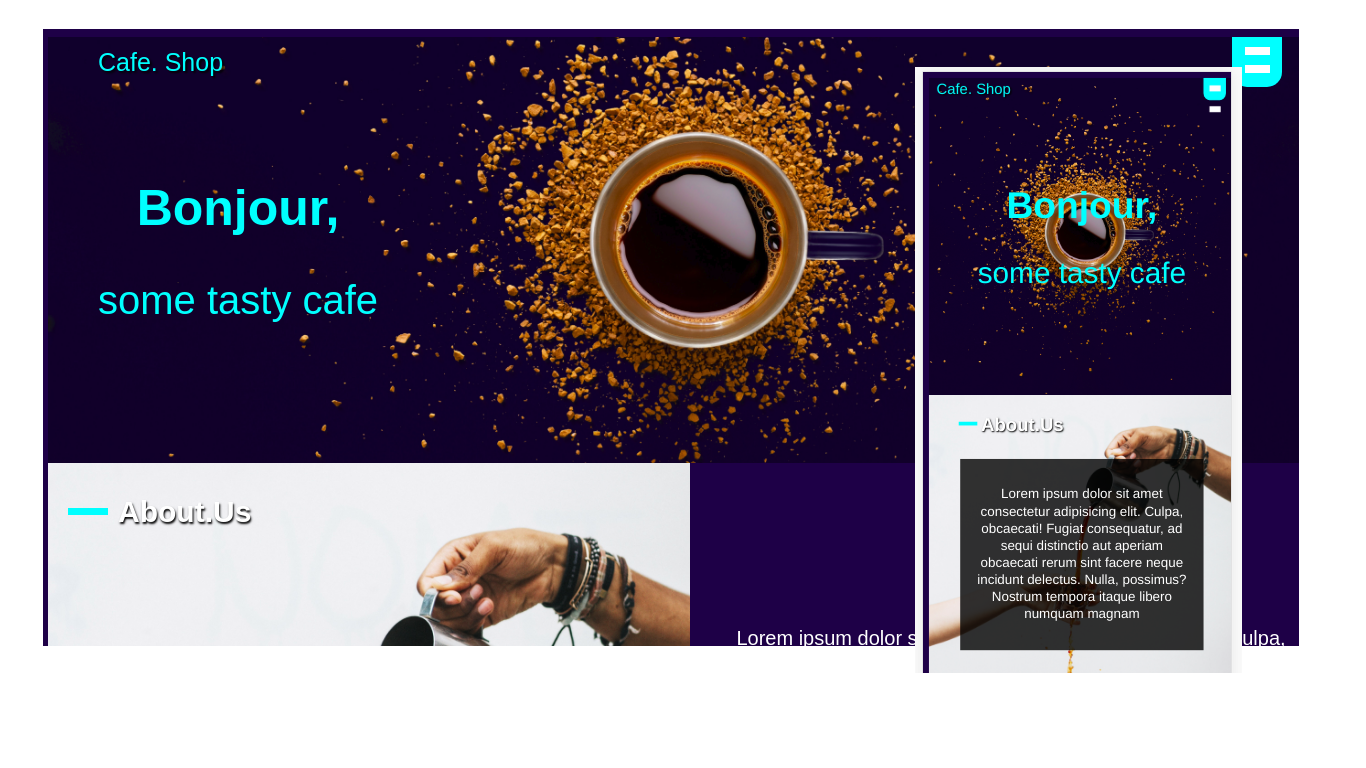
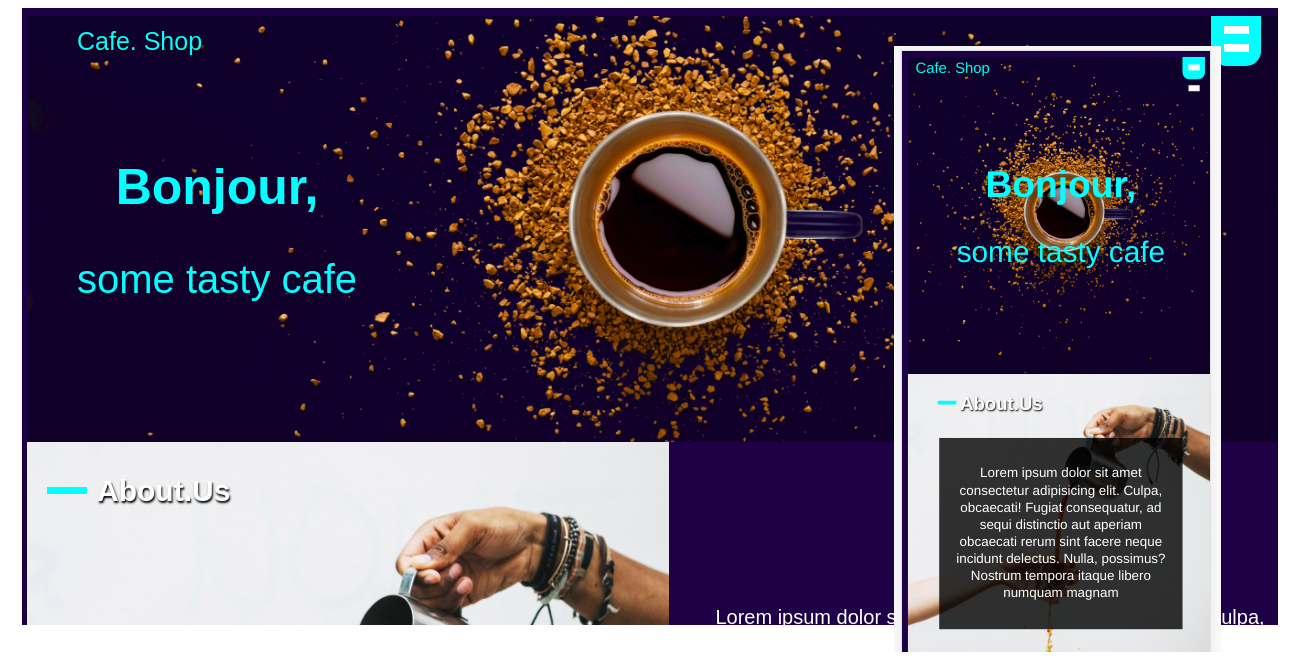
wasa clients picture updated

diff --git a/index.html b/index.html
@@ -91,9 +91,9 @@
         <section id="personalstatement">
             <h2>Hey, I'm Bea!</h2>
             <h2>I'm a creative, self-motivative { digital player } </h2>
-            <h2>I have worked in the online marketing and digital world for { 5 } years
+            <h2>I have worked for online marketing over { 5 } years
                 <h2>Now I'm passionate about being a { front-end developer }</h2>
-                <h2>And I am into { creating } digital experience and online { solutions }</h2>
+                <h2>and into creating development { experience } and online { solutions }</h2>
         </section>
         <!-- <div id="scrollImg"><img src="img/cartoonbody.png" alt=""></div> -->
 
@@ -235,10 +235,10 @@
                     Culture using 4 Languages
                     <br> (English, German, Spanish, Chinese)</h3>
                 <h3 class="wasaintro1" onmouseover="style.transform='rotateZ(0deg)'">Clients - Teabuddy, InWe Cha,
-                    Design Velley, Rósa Floweryvale, Shenghe Fashion
-                    Carnival, Planet Zero Retreat, GoEast Language</h3>
+                    669 Green Garden House, Design Velley, Rósa Floweryvale, Shenghe Fashion
+                    Carnival, 669 Bio Tech Park, Planet Zero Retreat, GoEast Language</h3>
                 <h3 class="wasaintro2" onmouseover="style.transform='rotateZ(0deg)'"> Sponsors - PearVideo, Weibo,
-                    Meipai Video, Dayu Media, NetEase Media</h3>
+                    Meipai Video, Youku Video, Dayu Media, NetEase Media</h3>
                 <h3 class="wasaintro1" onmouseover="style.transform='rotateZ(0deg)'"> Awarded as 3rd Most Popular China
                     Online Influencer 2017 by PearVideo</h3>
 
@@ -272,28 +272,43 @@
                     </div>
 
                     <div class="mySlideswasa fadewasa">
-                        <img src="./img/wasateainterview.jpg" style="width:100%">
+                        <p>WasaTea Vlog</p>
+                        <img src="./img/teadata.png" style="width:100%">
                     </div>
 
                     <div class="mySlideswasa fadewasa">
-                        <img src="./img/wasateateaplantation.jpg" style="width:100%">
+                        <p>Teabuddy</p>
+                        <img src="./img/chani.png" style="width:100%">
                     </div>
                     <div class="mySlideswasa fadewasa">
-                        <img src="./img/teaclass.jpg" style="width:100%">
+                        <p>Inwe cha</p>
+                        <img src="./img/inwecha.png" style="width:100%">
+                    </div>
+                    <div class="mySlideswasa fadewasa">
+                        <p> 669 Green Garden House<p>
+                        <img src="./img/669.png" style="width:100%">
+                    </div>
+                    <div class="mySlideswasa fadewasa">
+                        <p>Pear Video</p>
+                        <img src="./img/greentea.png" style="width:100%">
+                    </div>
+                    <div class="mySlideswasa fadewasa">
+                        <p>Shenghe Fashion Carnival</p>
+                        <img src="./img/Shenghesheng_Thumb.jpg" style="width:100%">
+                    </div>
+                    <div class="mySlideswasa fadewasa">
+                        <p>Tea Supplier Visit</p>
+                        <img src="./img/teaplanation.png" style="width:100%; height:90%">
+                    </div>
+                    <div class="mySlideswasa fadewasa">
+                        <p>Pear Video Interview</p>
+                        <img src="./img/wasateainterview.jpg" style="width:100%; height:70%">
                     </div>
 
                     <div class="mySlideswasa fadewasa">
-                        <img src="./img/wasatea 童趣照片/4.jpg" style="width:100%">
+                        <p>Go East Language</p>
+                    <img src="./img/teaclass.jpg" style="width:100%">
                     </div>
-                    <div class="mySlideswasa fadewasa">
-                        <img src="./img/wasatea 童趣照片/panda .jpg" style="width:100%">
-                    </div>
-                    <div class="mySlideswasa fadewasa">
-                        <img src="./img/wasatea 童趣照片/9.jpg" style="width:100%">
-                    </div>
-                    <!-- <div class="mySlideswasa fadewasa">
-                        <img src="./img/wasatea 童趣照片/15.jpg" style="width:100%">
-                    </div> -->
 
                     <a class="prevwasa" onclick="plusSlidesWasa(-1)">&#10094;</a>
                     <a class="nextwasa" onclick="plusSlidesWasa(1)">&#10095;</a>
@@ -371,7 +386,7 @@
             <div class="rowdci">
                 <div class="columndci">
                     <img class="demodci cursordci" src="./img/html.png" style="width:100%" onclick="currentSlide(1)"
-                        alt="Media Query">
+                        alt="HTML - Media Query">
                 </div>
                 <div class="columndci">
                     <img class="demodci cursordci" src="./img/css.png" style="width:100%" onclick="currentSlide(2)"
@@ -432,8 +447,7 @@
                     <img src="./img/booz.png" style="width:100%; height: auto;">
                 </div>
                 <div class="mySlidesdci">
-                    <div class="numbertextdci">2 / 6</div>
-                    <img src="./img/react.png" style="width:100%; height: auto;">
+                    <img src="./img/react1.png" style="width:100%; height: auto;">
                 </div>
                 <div class="mySlidesdci">
                     <div class="numbertextdci">3 / 6</div>

diff --git a/css/style.css b/css/style.css
@@ -140,17 +140,13 @@ section {
     height: 100px;
     width: 100%;
     background-color: rgb(255, 255, 255, 0.7);
-    display: flex;
-    align-items: center;
-    justify-content: space-around;
     padding: 0px;
-    position: fixed;
-    top: 0;
     text-decoration: none;
     z-index: 999;
     display: flex;
     align-items: flex-start;
     justify-content: flex-start;
+    position: relative;
   }
   .logo {
     display: none;
@@ -215,7 +211,7 @@ section {
 /* workhard part */
 
 .profile1 {
-  margin-top: 300px;
+  margin-top: 200px;
   width: 100%;
   height: 450px;
   display: flex;
@@ -381,7 +377,7 @@ section {
   }
 
   .profile1 {
-    margin-top: 100px;
+    margin-top: 0px;
   }
 
   .workhard {
@@ -516,7 +512,7 @@ section {
   text-align: center;
   position: absolute;
   margin-top: 30%;
-  width: 100%;
+  width: 90%;
   height: 100vh;
   color: rgb(56, 55, 55);
   font-size: 15px;
@@ -568,9 +564,7 @@ section {
 /* skill part */
 #skill {
   text-transform: uppercase;
-  width: 100%;
   margin: 0 auto;
-  margin-top: 0%;
   display: flex;
   font-family: "Unlock", cursive;
   font-size: 20px;
@@ -612,6 +606,7 @@ section {
 @media screen and (max-width: 768px) {
   #skill {
     flex-direction: column;
+    width: 90%;
   }
   #skill img {
     width: 40%;
@@ -966,20 +961,6 @@ section {
 .wasatea h3 {
   font-size: 20px;
 }
-/* .wasatea nav{
-    transform: rotateZ(45deg);
-      margin-top: 3%;
-} */
-
-/* .wasatea h4{
-  font-size: 10px;
- color:#5d5b5b;
-} */
-
-/* #wasaIntro{
- margin-top: 10%;
-
-} */
 
 .wasaintro1 {
   width: 40%;
@@ -1090,7 +1071,7 @@ section {
   flex-direction: column;
   justify-content: center;
   align-items: center;
-  height: 180vh;
+  height: 100vh;
 }
 
 .teaimgDiv video {
@@ -1126,13 +1107,21 @@ section {
 .mySlideswasa {
   display: none;
 }
+
+.mySlideswasa p {
+  font-size: 20px;
+  color: #363636;
+  letter-spacing: 2px;
+  font-weight: bolder;
+}
+
 img {
   vertical-align: middle;
 }
 
 /* Slideshow container */
 .slideshow-containerwasa {
-  max-width: 1500px;
+  max-width: 800px;
   position: relative;
   margin: auto;
 }
@@ -1212,7 +1201,7 @@ img {
   padding: 0%;
 }
 
-/* make the space between linkedin and xing */
+/* make the space between icons in wasatea */
 #mediaIcon li {
   display: flex;
   align-items: center;
@@ -1580,7 +1569,7 @@ img {
   justify-content: center;
   flex-direction: column;
   background: #35ec9e;
-  text-shadow: 5px 5px #5d5b5b;
+  text-shadow: 5px 5px #a19090;
   text-align: center;
   letter-spacing: 5px;
   color: white;
@@ -1598,7 +1587,7 @@ img {
 }
 
 .dcipic {
-  height: 100vh;
+  height: 130vh;
   display: flex;
   justify-content: center;
   align-items: center;
@@ -1737,7 +1726,7 @@ img {
   }
 
   .dcipic {
-    height: 50vh;
+    height: 70vh;
   }
   #dcileft img {
     width: 80%;
@@ -1763,6 +1752,7 @@ img {
   }
   .DCI {
     flex-direction: column;
+    height: 100vh;
   }
   #dcileft h1 {
     font-size: 20px;
@@ -1779,13 +1769,15 @@ img {
   }
   #dcileft {
     width: 95%;
+    height: 60vh;
   }
   #dciright {
     width: 95%;
+    height: 60vh;
   }
 
   .dcipic {
-    height: 50vh;
+    height: 40vh;
   }
 }
 
@@ -1802,7 +1794,7 @@ img {
 .containerdci {
   box-sizing: border-box;
   position: relative;
-  width: 100%;
+  width: 90%;
 }
 
 /* Hide the images by default */
@@ -1915,17 +1907,22 @@ img {
   display: flex;
   flex-direction: row;
   width: 100%;
+  height: 60vh;
   background-color: #35ec9e;
   background-repeat: no-repeat;
   background-position: 100% 50%;
   justify-content: center;
   line-height: 60px;
 }
+#contact nav img {
+  width: 40px;
+}
 #contact ul {
   padding: 0%;
+  margin: 0%;
 }
 #contact li {
-  margin: 2%;
+  margin: 0 2%;
 }
 
 .contactdetail {
@@ -1933,7 +1930,6 @@ img {
   flex-direction: column;
   justify-content: flex-start;
   align-self: center;
-  margin-top: 10%;
   width: 80%;
 }
 
@@ -1946,6 +1942,7 @@ img {
 .contactdetail h3 {
   line-height: 40px;
   letter-spacing: 2px;
+  font-size: 16px;
 }
 
 .contactpic {
@@ -1970,9 +1967,9 @@ img {
     flex-direction: column;
   }
   .contactdetail {
-    width: 90%;
+    width: 100%;
     height: 50vh;
-    margin-top: 10%;
+    margin-top: 5%;
   }
   .contactpic {
     display: none;
@@ -1981,14 +1978,17 @@ img {
     font-size: 20px;
   }
   .contactdetail h3 {
-    line-height: 40px;
+    width: 100%;
+    line-height: 30px;
+    font-size: 15px;
+    margin-top: 0%;
   }
 }
 
 /* contact tablet size */
-@media screen and (max-width: 767px) {
+@media screen and (max-width: 768px) {
   .contactdetail {
-    width: 70%;
+    width: 80%;
   }
 }
 
@@ -2002,4 +2002,5 @@ footer h3 {
   justify-content: center;
   align-items: center;
   margin: 1% auto;
+  color: #2e2b2b;
 }

diff --git a/main.js b/main.js
@@ -54,16 +54,16 @@ function scrollFunction() {
     document.querySelector(".logo-text").style.fontSize = "30px";
     document.querySelector(".logo-text").style.transition =
       "all 1s ease-in-out";
-    document.querySelector("#backlinkExp").style.fontSize = "25px";
-    document.querySelector("#backlinkPro").style.fontSize = "25px";
-    document.querySelector("#backlinkCon").style.fontSize = "25px";
+    document.querySelector("#backlinkExp").style.fontSize = "22px";
+    document.querySelector("#backlinkPro").style.fontSize = "22px";
+    document.querySelector("#backlinkCon").style.fontSize = "22px";
     document.querySelector("#backlinkExp").style.transition =
       "all 1s ease-in-out";
     document.querySelector("#backlinkPro").style.transition =
       "all 1s ease-in-out";
     document.querySelector("#backlinkCon").style.transition =
       "all 1s ease-in-out";
-    document.querySelector("header").style.height = "100px";
+    document.querySelector("header").style.height = "70px";
     document.querySelector("header").style.background =
       "rgba(250, 250, 250, 0.9)";
 
